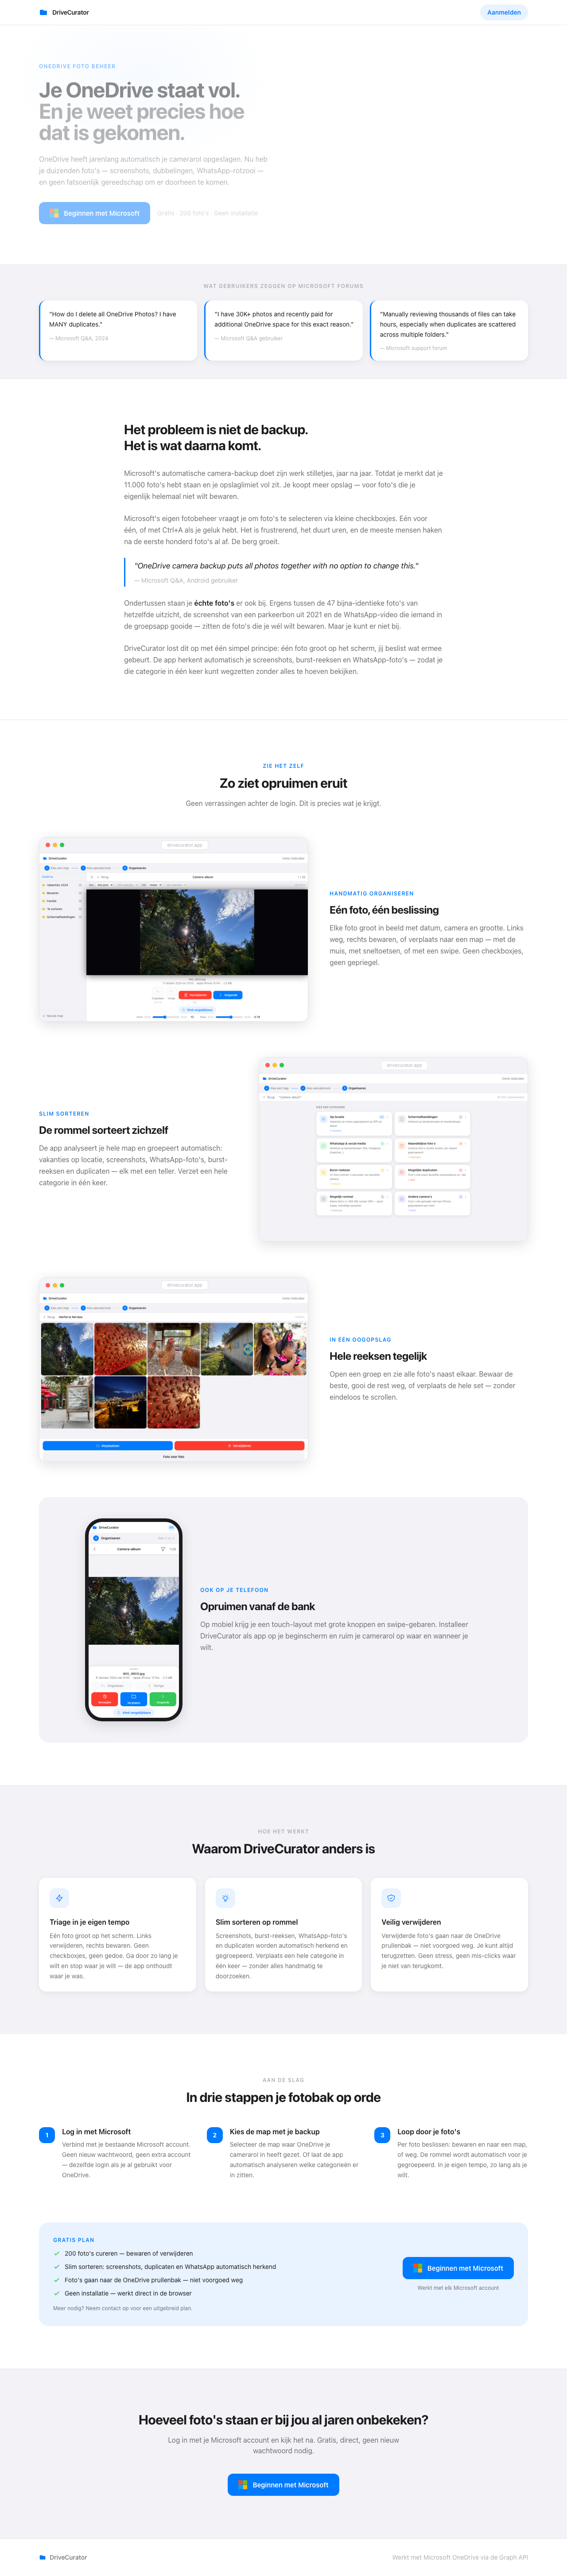
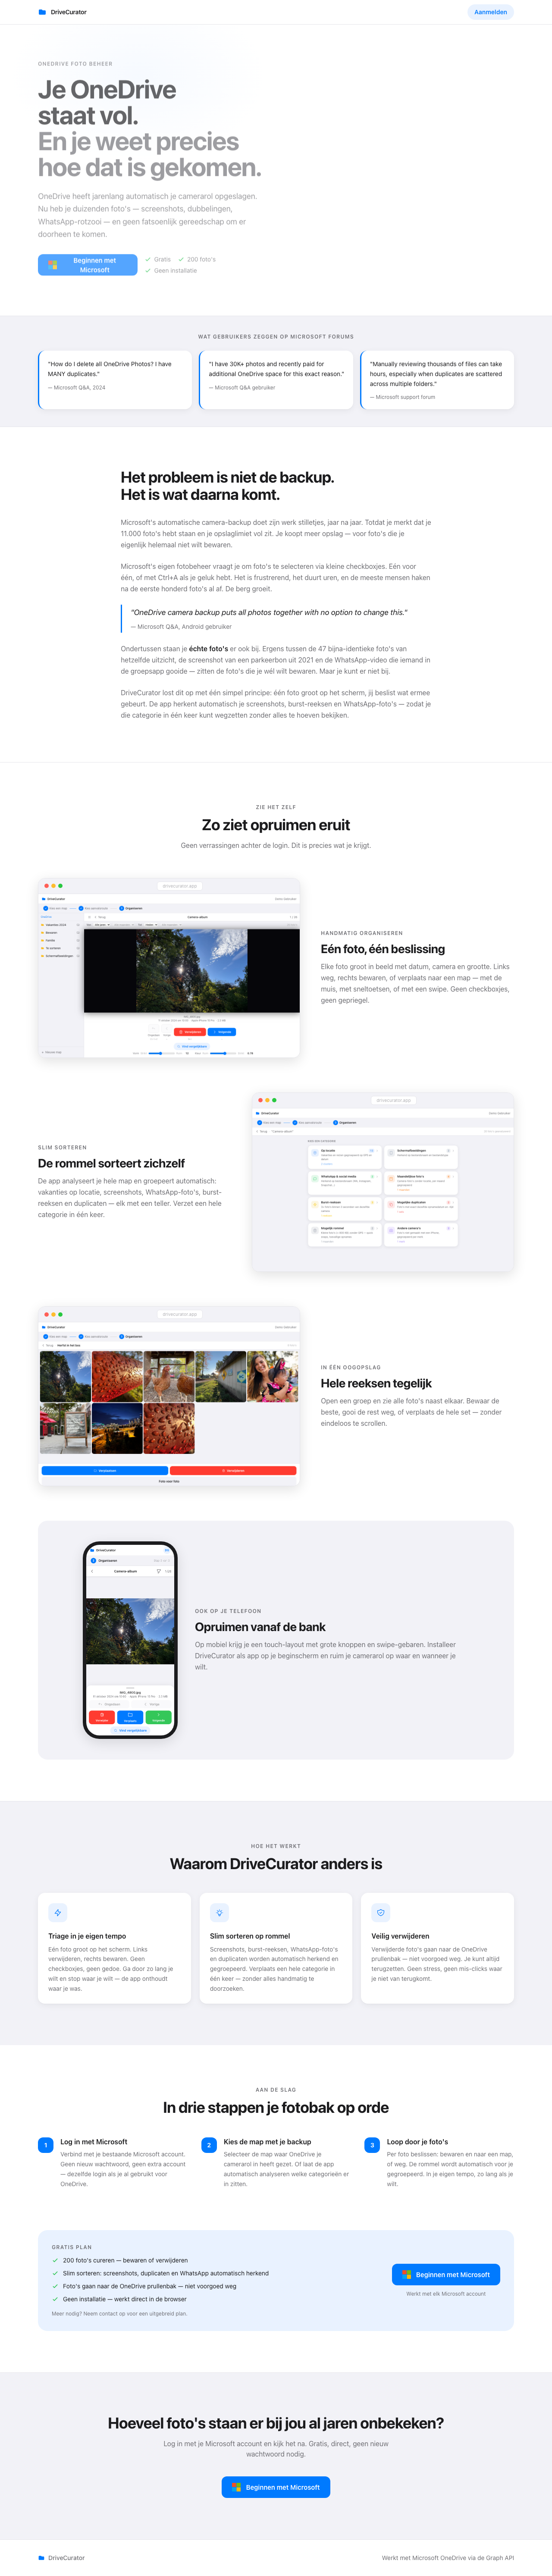
LandingPage: premium redesign + toegankelijkheid
WCAG 2.2 AA: betekenisvolle tekst van te licht text-disabled naar secondary
(contrast), zichtbare focus-ring op nav-knop en Microsoft-knop. Eén rustig
eyebrow-systeem i.p.v. mix accent/grijs. Grotere gebalanceerde hero-kop +
lead, trustregel als checkmark-rij. Geünificeerde sectiekoppen, hover-lift
op quote-kaarten. Functionaliteit ongewijzigd.

diff --git a/src/components/LandingPage.tsx b/src/components/LandingPage.tsx
@@ -1,8 +1,22 @@
 import { useState } from 'react'
+import { branding } from '../branding'
 
 interface Props {
   onLogin: () => Promise<void>
 }
+
+// Eén rustig, toegankelijk eyebrow-systeem (klein, hoofdletters, gespatieerd).
+// Bewust secundair grijs i.p.v. accent: haalt WCAG AA op klein formaat en houdt
+// de pagina kalm — de kleur-pop komt van knoppen, icoontegels en de foto's.
+const eyebrow = 'text-xs font-semibold uppercase tracking-widest text-fluent-text-secondary'
+
+// Sectiekop — consistente schaal + gebalanceerde regelafbreking.
+const sectionHeading = 'text-3xl sm:text-4xl font-bold tracking-tight text-balance'
+
+// Zichtbare focus-ring voor de eigen knoppen/links (zelfde patroon als Button.tsx).
+const focusRing =
+  'focus-visible:outline-none focus-visible:ring-2 focus-visible:ring-fluent-accent ' +
+  'focus-visible:ring-offset-2 focus-visible:ring-offset-fluent-bg-primary'
 
 // ── App preview voor hero ─────────────────────────────────────────────────────
 
@@ -189,21 +203,21 @@ const showcaseRows = [
     title: 'Eén foto, één beslissing',
     body: 'Elke foto groot in beeld met datum, camera en grootte. Links weg, rechts bewaren, of verplaats naar een map — met de muis, met sneltoetsen, of met een swipe. Geen checkboxjes, geen gepriegel.',
     src: '/screenshots/triage-desktop.png',
-    alt: 'DriveCurator triage-scherm: één foto groot in beeld met verwijder- en bewaarknoppen',
+    alt: `${branding.name} triage-scherm: één foto groot in beeld met verwijder- en bewaarknoppen`,
   },
   {
     eyebrow: 'Slim sorteren',
     title: 'De rommel sorteert zichzelf',
     body: 'De app analyseert je hele map en groepeert automatisch: vakanties op locatie, screenshots, WhatsApp-foto\'s, burst-reeksen en duplicaten — elk met een teller. Verzet een hele categorie in één keer.',
     src: '/screenshots/smartsort-dashboard.png',
-    alt: 'DriveCurator slim-sorteren-dashboard met categorieën en aantallen',
+    alt: `${branding.name} slim-sorteren-dashboard met categorieën en aantallen`,
   },
   {
     eyebrow: 'In één oogopslag',
     title: 'Hele reeksen tegelijk',
     body: 'Open een groep en zie alle foto\'s naast elkaar. Bewaar de beste, gooi de rest weg, of verplaats de hele set — zonder eindeloos te scrollen.',
     src: '/screenshots/smartsort-cluster.png',
-    alt: 'DriveCurator cluster-grid met meerdere foto\'s naast elkaar',
+    alt: `${branding.name} cluster-grid met meerdere foto's naast elkaar`,
   },
 ]
 
@@ -211,10 +225,10 @@ function Showcase() {
   return (
     <section className="border-t border-fluent-border">
       <div className="max-w-6xl mx-auto px-6 py-24">
-        <p className="text-xs font-semibold uppercase tracking-widest mb-3 text-center text-fluent-accent">
+        <p className={`${eyebrow} mb-3 text-center`}>
           Zie het zelf
         </p>
-        <h2 className="text-3xl font-bold text-center mb-4 tracking-tight">
+        <h2 className={`${sectionHeading} text-center mb-4`}>
           Zo ziet opruimen eruit
         </h2>
         <p className="text-base text-center max-w-xl mx-auto mb-16 text-fluent-text-secondary">
@@ -231,8 +245,8 @@ function Showcase() {
                 <BrowserFrame src={row.src} alt={row.alt} />
               </div>
               <div className="flex-1 max-w-md">
-                <p className={`${'text-xs font-semibold uppercase tracking-widest text-fluent-accent'} mb-3`}>{row.eyebrow}</p>
-                <h3 className="text-2xl font-bold mb-3 tracking-tight">{row.title}</h3>
+                <p className={`${eyebrow} mb-3`}>{row.eyebrow}</p>
+                <h3 className="text-2xl sm:text-[1.75rem] font-bold mb-3 tracking-tight text-balance">{row.title}</h3>
                 <p className="text-base leading-relaxed text-fluent-text-secondary">{row.body}</p>
               </div>
             </div>
@@ -242,12 +256,12 @@ function Showcase() {
         {/* Mobiel-accent */}
         <div className="mt-20 rounded-3xl bg-fluent-bg-secondary px-6 py-12">
           <div className="flex flex-col md:flex-row items-center gap-10 max-w-4xl mx-auto">
-            <PhoneFrame src="/screenshots/triage-mobile.png" alt="DriveCurator op een telefoon, met grote touch-knoppen" />
+            <PhoneFrame src="/screenshots/triage-mobile.png" alt={`${branding.name} op een telefoon, met grote touch-knoppen`} />
             <div className="flex-1 text-center md:text-left">
-              <p className="text-xs font-semibold uppercase tracking-widest mb-3 text-fluent-accent">Ook op je telefoon</p>
-              <h3 className="text-2xl font-bold mb-3 tracking-tight">Opruimen vanaf de bank</h3>
+              <p className={`${eyebrow} mb-3`}>Ook op je telefoon</p>
+              <h3 className="text-2xl sm:text-[1.75rem] font-bold mb-3 tracking-tight text-balance">Opruimen vanaf de bank</h3>
               <p className="text-base leading-relaxed text-fluent-text-secondary">
-                Op mobiel krijg je een touch-layout met grote knoppen en swipe-gebaren. Installeer DriveCurator als
+                Op mobiel krijg je een touch-layout met grote knoppen en swipe-gebaren. Installeer {branding.name} als
                 app op je beginscherm en ruim je camerarol op waar en wanneer je wilt.
               </p>
             </div>
@@ -265,7 +279,7 @@ function MsftButton({ onClick, loading }: { onClick: () => void; loading: boolea
     <button
       onClick={onClick}
       disabled={loading}
-      className="group flex items-center justify-center gap-3 px-6 rounded-xl font-semibold text-[15px] text-white transition-all duration-200 disabled:opacity-60 active:scale-[0.97] hover:brightness-110"
+      className={`group flex items-center justify-center gap-3 px-6 rounded-xl font-semibold text-[15px] text-white transition-all duration-200 disabled:opacity-60 active:scale-[0.97] hover:brightness-110 ${focusRing}`}
       style={{ background: 'var(--color-accent)', minHeight: 50 }}
     >
       {loading ? (
@@ -293,8 +307,6 @@ export default function LandingPage({ onLogin }: Props) {
     try { await onLogin() } finally { setLoggingIn(false) }
   }
 
-  const eyebrow = 'text-xs font-semibold uppercase tracking-widest text-fluent-accent'
-
   return (
     <div className="bg-fluent-bg-primary text-fluent-text-primary">
 
@@ -308,12 +320,12 @@ export default function LandingPage({ onLogin }: Props) {
             <svg className="w-5 h-5 text-fluent-accent" fill="currentColor" viewBox="0 0 20 20">
               <path d="M2 6a2 2 0 012-2h5l2 2h5a2 2 0 012 2v6a2 2 0 01-2 2H4a2 2 0 01-2-2V6z" />
             </svg>
-            <span className="font-semibold text-sm tracking-tight">DriveCurator</span>
+            <span className="font-semibold text-sm tracking-tight">{branding.name}</span>
           </div>
           <button
             onClick={handleLogin}
             disabled={loggingIn}
-            className="text-sm font-semibold px-4 py-2 rounded-full bg-fluent-accent-light text-fluent-accent transition-all active:scale-[0.97] hover:brightness-95 disabled:opacity-60"
+            className={`text-sm font-semibold px-4 py-2 rounded-full bg-fluent-accent-light text-fluent-accent transition-all duration-200 active:scale-[0.97] hover:brightness-95 disabled:opacity-60 ${focusRing}`}
           >
             {loggingIn ? 'Aanmelden…' : 'Aanmelden'}
           </button>
@@ -333,19 +345,28 @@ export default function LandingPage({ onLogin }: Props) {
 
             {/* Linker kolom: tekst */}
             <div className="flex-1 max-w-xl animate-rise">
-              <p className={`${eyebrow} mb-5`}>OneDrive foto beheer</p>
-              <h1 className="text-4xl sm:text-5xl font-bold leading-[1.1] mb-6 tracking-tight">
+              <p className={`${eyebrow} mb-5`}>{branding.slogan}</p>
+              <h1 className="text-4xl sm:text-5xl lg:text-6xl font-bold leading-[1.05] mb-6 tracking-tight text-balance">
                 Je OneDrive staat vol.
                 <br />
                 <span className="text-fluent-text-secondary">En je weet precies hoe dat is gekomen.</span>
               </h1>
-              <p className="text-base mb-8 leading-relaxed text-fluent-text-secondary">
+              <p className="text-lg mb-8 leading-relaxed text-fluent-text-secondary text-pretty">
                 OneDrive heeft jarenlang automatisch je camerarol opgeslagen. Nu heb je duizenden foto's —
                 screenshots, dubbelingen, WhatsApp-rotzooi — en geen fatsoenlijk gereedschap om er doorheen te komen.
               </p>
               <div className="flex flex-col sm:flex-row items-start sm:items-center gap-4">
                 <MsftButton onClick={handleLogin} loading={loggingIn} />
-                <p className="text-sm text-fluent-text-disabled">Gratis · 200 foto's · Geen installatie</p>
+                <ul className="flex flex-wrap items-center gap-x-4 gap-y-1.5 text-sm text-fluent-text-secondary">
+                  {['Gratis', "200 foto's", 'Geen installatie'].map(item => (
+                    <li key={item} className="flex items-center gap-1.5">
+                      <svg className="w-4 h-4 flex-shrink-0 text-fluent-success" fill="none" stroke="currentColor" viewBox="0 0 24 24">
+                        <path strokeLinecap="round" strokeLinejoin="round" strokeWidth={2.5} d="M5 13l4 4L19 7" />
+                      </svg>
+                      {item}
+                    </li>
+                  ))}
+                </ul>
               </div>
             </div>
 
@@ -360,14 +381,14 @@ export default function LandingPage({ onLogin }: Props) {
       {/* ── Quote strip ──────────────────────────────────────────────────── */}
       <div className="border-y border-fluent-border bg-fluent-bg-secondary">
         <div className="max-w-6xl mx-auto px-6 py-10">
-          <p className="text-xs font-semibold uppercase tracking-widest mb-6 text-center text-fluent-text-disabled">
+          <p className={`${eyebrow} mb-6 text-center`}>
             Wat gebruikers zeggen op Microsoft forums
           </p>
           <div className="grid grid-cols-1 md:grid-cols-3 gap-4">
             {userQuotes.map((q, i) => (
-              <div key={i} className="p-5 rounded-2xl bg-fluent-bg-primary shadow-card border-l-[3px] border-fluent-accent">
+              <div key={i} className="p-5 rounded-2xl bg-fluent-bg-primary shadow-card border-l-[3px] border-fluent-accent transition-all duration-200 hover:shadow-float hover:-translate-y-0.5">
                 <p className="text-sm leading-relaxed mb-3 text-fluent-text-primary">{q.text}</p>
-                <p className="text-xs text-fluent-text-disabled">— {q.source}</p>
+                <p className="text-xs text-fluent-text-secondary">— {q.source}</p>
               </div>
             ))}
           </div>
@@ -377,7 +398,7 @@ export default function LandingPage({ onLogin }: Props) {
       {/* ── Verhaal ───────────────────────────────────────────────────────── */}
       <section className="max-w-3xl mx-auto px-6 py-24">
         <div className="space-y-6 text-base leading-relaxed text-fluent-text-secondary">
-          <h2 className="text-3xl font-bold mb-8 tracking-tight text-fluent-text-primary">
+          <h2 className={`${sectionHeading} mb-8 text-fluent-text-primary`}>
             Het probleem is niet de backup.<br />Het is wat daarna komt.
           </h2>
 
@@ -395,7 +416,7 @@ export default function LandingPage({ onLogin }: Props) {
 
           <blockquote className="my-8 pl-5 py-1 border-l-[3px] border-fluent-accent text-fluent-text-primary italic" style={{ fontSize: '1.1rem' }}>
             "OneDrive camera backup puts all photos together with no option to change this."
-            <footer className="mt-2 text-sm not-italic text-fluent-text-disabled">— Microsoft Q&A, Android gebruiker</footer>
+            <footer className="mt-2 text-sm not-italic text-fluent-text-secondary">— Microsoft Q&A, Android gebruiker</footer>
           </blockquote>
 
           <p>
@@ -406,7 +427,7 @@ export default function LandingPage({ onLogin }: Props) {
           </p>
 
           <p>
-            DriveCurator lost dit op met één simpel principe: één foto groot op het scherm,
+            {branding.name} lost dit op met één simpel principe: één foto groot op het scherm,
             jij beslist wat ermee gebeurt. De app herkent automatisch je screenshots, burst-reeksen
             en WhatsApp-foto's — zodat je die categorie in één keer kunt wegzetten zonder alles te
             hoeven bekijken.
@@ -420,11 +441,11 @@ export default function LandingPage({ onLogin }: Props) {
       {/* ── Features ─────────────────────────────────────────────────────── */}
       <section className="border-t border-fluent-border bg-fluent-bg-secondary">
         <div className="max-w-6xl mx-auto px-6 py-24">
-          <p className="text-xs font-semibold uppercase tracking-widest mb-3 text-center text-fluent-text-disabled">
+          <p className={`${eyebrow} mb-3 text-center`}>
             Hoe het werkt
           </p>
-          <h2 className="text-3xl font-bold text-center mb-12 tracking-tight">
-            Waarom DriveCurator anders is
+          <h2 className={`${sectionHeading} text-center mb-12`}>
+            Waarom {branding.name} anders is
           </h2>
           <div className="grid grid-cols-1 md:grid-cols-3 gap-5">
             {features.map((f) => (
@@ -445,10 +466,10 @@ export default function LandingPage({ onLogin }: Props) {
 
       {/* ── Stappen ──────────────────────────────────────────────────────── */}
       <section className="max-w-6xl mx-auto px-6 py-24">
-        <p className="text-xs font-semibold uppercase tracking-widest mb-3 text-center text-fluent-text-disabled">
+        <p className={`${eyebrow} mb-3 text-center`}>
           Aan de slag
         </p>
-        <h2 className="text-3xl font-bold text-center mb-12 tracking-tight">
+        <h2 className={`${sectionHeading} text-center mb-12`}>
           In drie stappen je fotobak op orde
         </h2>
         <div className="grid grid-cols-1 md:grid-cols-3 gap-8">
@@ -500,7 +521,7 @@ export default function LandingPage({ onLogin }: Props) {
       {/* ── CTA ──────────────────────────────────────────────────────────── */}
       <section className="border-t border-fluent-border bg-fluent-bg-secondary">
         <div className="relative max-w-6xl mx-auto px-6 py-24 text-center">
-          <h2 className="text-3xl font-bold mb-4 tracking-tight">
+          <h2 className={`${sectionHeading} mb-4`}>
             Hoeveel foto's staan er bij jou al jaren onbekeken?
           </h2>
           <p className="text-base mb-10 max-w-xl mx-auto text-fluent-text-secondary">
@@ -519,9 +540,9 @@ export default function LandingPage({ onLogin }: Props) {
             <svg className="w-4 h-4 text-fluent-accent" fill="currentColor" viewBox="0 0 20 20">
               <path d="M2 6a2 2 0 012-2h5l2 2h5a2 2 0 012 2v6a2 2 0 01-2 2H4a2 2 0 01-2-2V6z" />
             </svg>
-            <span className="text-sm font-medium text-fluent-text-secondary">DriveCurator</span>
+            <span className="text-sm font-medium text-fluent-text-secondary">{branding.name}</span>
           </div>
-          <span className="text-sm text-fluent-text-disabled">
+          <span className="text-sm text-fluent-text-secondary">
             Werkt met Microsoft OneDrive via de Graph API
           </span>
         </div>